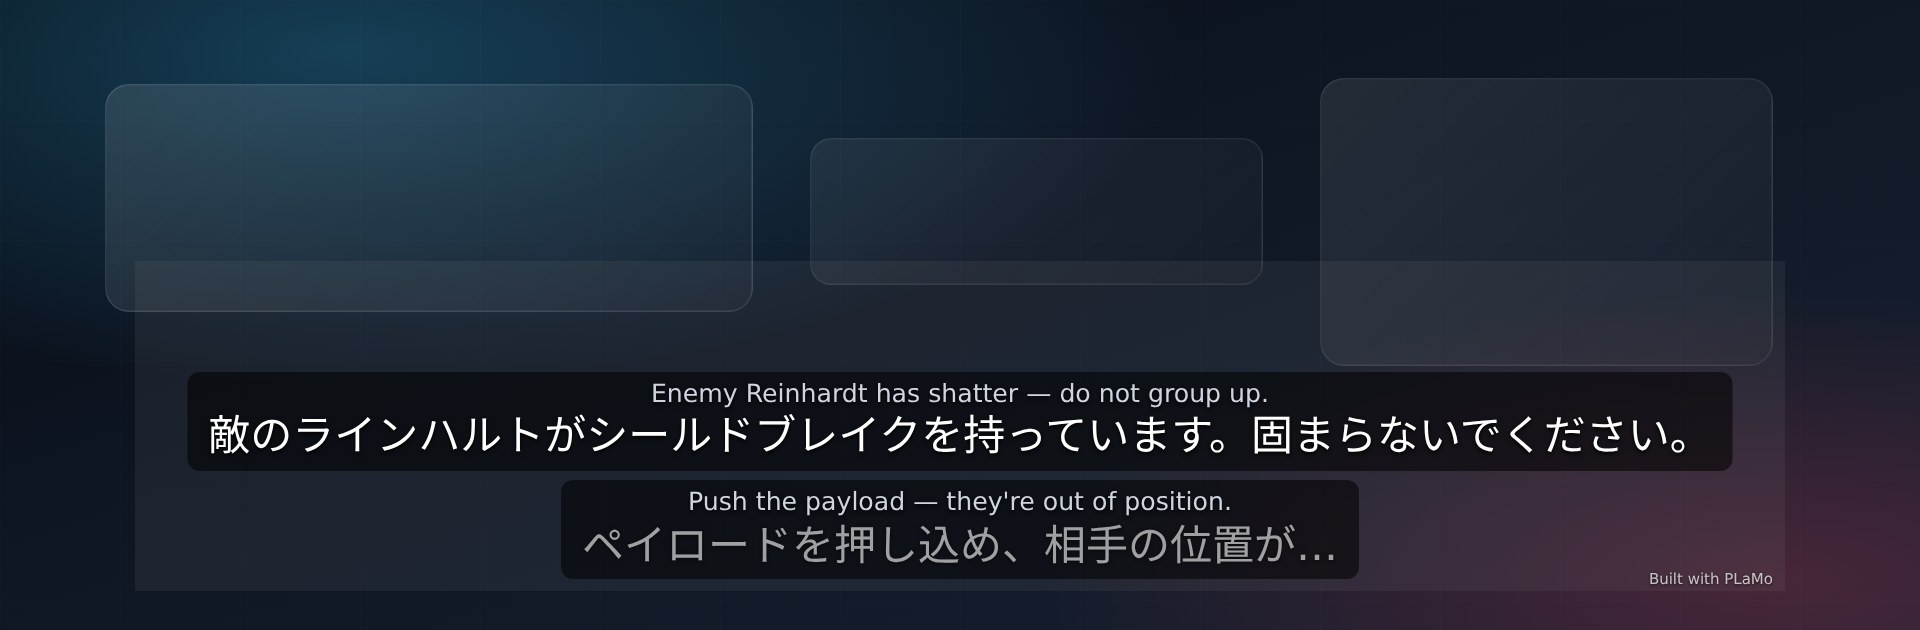
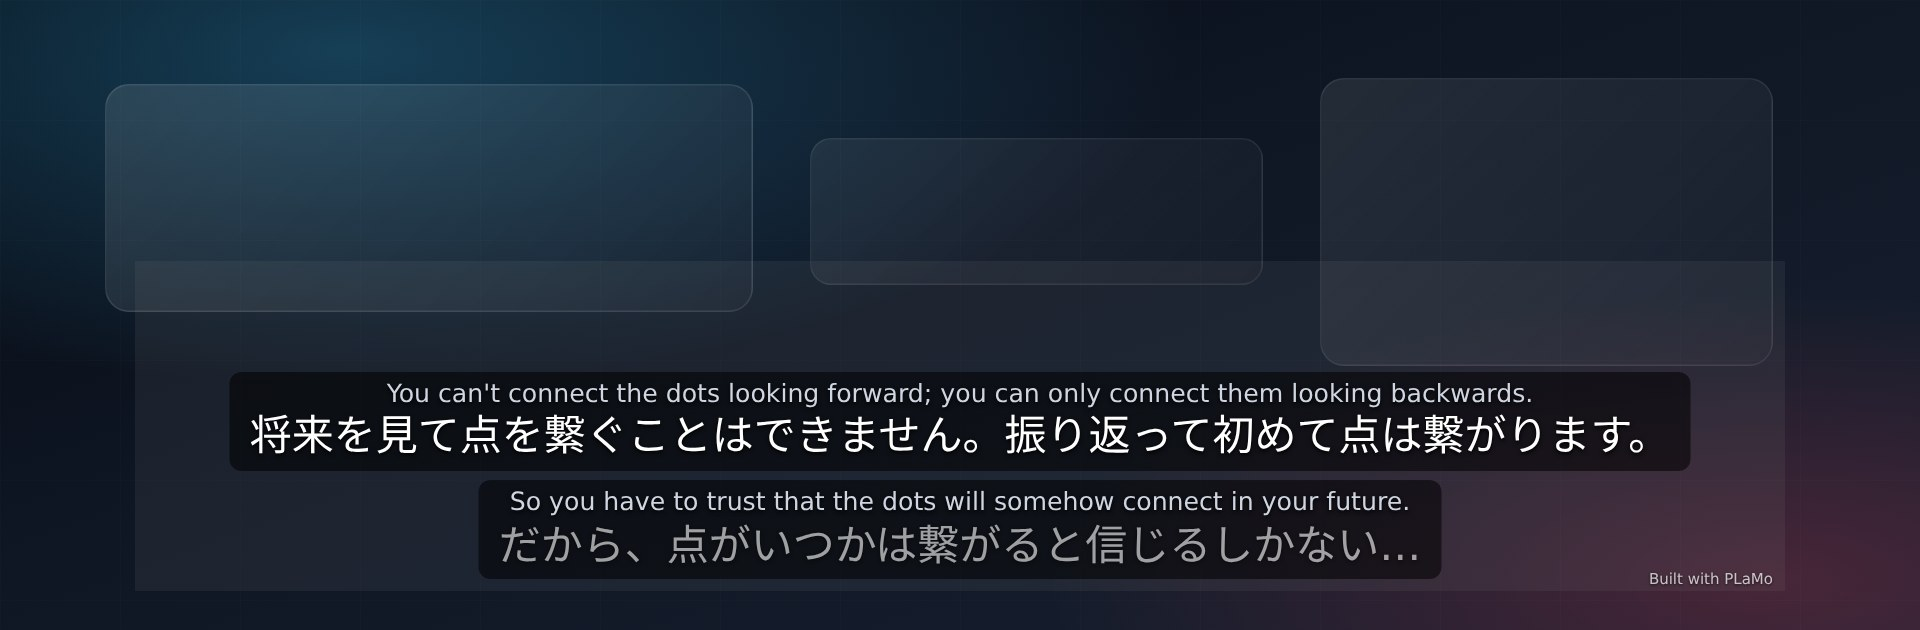
docs: スクリーンショットのサンプル字幕をジョブズの「Connecting the Dots」に変更
- サンプルデータの題材をゲーム（Overwatch）から、スティーブ・ジョブズの
  スタンフォード卒業式スピーチ（Connecting the Dots）に変更し、初見でも
  内容が分かるようにした
- 設定画面（日英）・モデルの準備（日英）・字幕オーバーレイの画像を再生成
  （履歴6件、英語原文＋日本語訳、オーバーレイは final / streaming の例）
- アプリ内の例示もゲーム用語から中立な内容に変更
  - 話題（翻訳のヒント）のプレースホルダ（日英）
  - core のテスト用フィクスチャとコメント、src-tauri の e2e テスト既定用語集
- cargo test -p overlaysubs-core: 19 passed

Changed region(s): [[0.0938, 0.573, 0.9062, 0.754], [0.25, 0.754, 0.75, 0.9349]]

diff --git a/ui/i18n.js b/ui/i18n.js
@@ -21,7 +21,7 @@ const I18N = {
     input: "音声入力", source: "入力元", system: "システム音声", mic: "マイク", device: "デバイス", default_dev: "既定",
     languages: "言語", src_lang: "話されている言語", auto: "自動判定", tgt_lang: "訳す言語", alt_lang: "すでにその言語のとき",
     tuning: "翻訳の調整", form: "日本語の文体", form_default: "既定", plain: "常体", polite: "敬体", context: "直前の発話を文脈として使う",
-    topic: "話題（翻訳のヒント）", topic_ph: "例: Overwatch のコーチング配信", glossary: "用語集（1行に「原語=訳語」）", recent: "最近の字幕", no_history: "まだ字幕はありません",
+    topic: "話題（翻訳のヒント）", topic_ph: "例: オンライン講義の録音", glossary: "用語集（1行に「原語=訳語」）", recent: "最近の字幕", no_history: "まだ字幕はありません",
     asr: "音声認識", translator: "翻訳", vad: "VAD", models_dir: "保存先", change: "変更", delete: "削除", deleted: "削除しました", downloaded: "取得済み", missing: "未取得",
     advanced: "詳細設定", gpu_layers: "翻訳モデルのGPUレイヤー数（0でCPU）", whisper_gpu: "音声認識にGPUを使う",
     overlay: "字幕の表示", show_source: "原文も表示", font_size: "文字サイズ", font: "フォント", bg: "背景の不透明度", lines: "表示行数", linger: "表示時間（秒）", click_through: "クリック透過", show_credit: "「Built with PLaMo」を表示",
@@ -53,7 +53,7 @@ const I18N = {
     input: "Audio input", source: "Source", system: "System audio", mic: "Microphone", device: "Device", default_dev: "Default",
     languages: "Languages", src_lang: "Spoken language", auto: "Auto-detect", tgt_lang: "Translate into", alt_lang: "If already in that language",
     tuning: "Translation tuning", form: "Japanese style", form_default: "Default", plain: "Plain", polite: "Polite", context: "Use previous utterances as context",
-    topic: "Topic (hint for translation)", topic_ph: "e.g. Overwatch coaching stream", glossary: "Glossary (one \"source=target\" per line)", recent: "Recent subtitles", no_history: "No subtitles yet",
+    topic: "Topic (hint for translation)", topic_ph: "e.g. a recorded online lecture", glossary: "Glossary (one \"source=target\" per line)", recent: "Recent subtitles", no_history: "No subtitles yet",
     asr: "Speech recognition", translator: "Translation", vad: "VAD", models_dir: "Folder", change: "Change", delete: "Delete", deleted: "Deleted", downloaded: "downloaded", missing: "not downloaded",
     advanced: "Advanced", gpu_layers: "Translator GPU layers (0 = CPU)", whisper_gpu: "Use GPU for speech recognition",
     overlay: "Subtitles", show_source: "Show original text", font_size: "Font size", font: "Font", bg: "Background opacity", lines: "Lines", linger: "Display time (s)", click_through: "Click-through", show_credit: "Show \"Built with PLaMo\"",

diff --git a/crates/core/src/session.rs b/crates/core/src/session.rs
@@ -28,7 +28,7 @@ pub struct SessionConfig {
     pub form: Option<Form>,
     pub use_context: bool,
     pub glossary: Vec<(String, String)>,
-    /// Free-text hint for the translator, e.g. "Overwatch coaching stream".
+    /// Free-text hint for the translator, e.g. "Stanford commencement speech".
     pub topic: String,
 }
 
@@ -280,12 +280,12 @@ mod tests {
     #[test]
     fn japanese_fragments_join_without_space_and_flush_finalizes() {
         let mut s = Session::new(SessionConfig::default());
-        let (mut a, mut mt, mut caps) = (asr(vec!["ブリンクを使うのが", "早すぎます"]), FakeMt(vec![]), vec![]);
+        let (mut a, mut mt, mut caps) = (asr(vec!["この設定を変えるのが", "早すぎます"]), FakeMt(vec![]), vec![]);
         fin(&mut s, &mut a, &mut mt, &mut caps);
         fin(&mut s, &mut a, &mut mt, &mut caps);
         assert!(s.entries.is_empty());
         s.flush(&mut mt, &mut |c| caps.push(c)).unwrap();
-        assert_eq!(s.entries[0].source, "ブリンクを使うのが早すぎます");
+        assert_eq!(s.entries[0].source, "この設定を変えるのが早すぎます");
         s.flush(&mut mt, &mut |c| caps.push(c)).unwrap();
         assert_eq!(s.entries.len(), 1, "second flush is a no-op");
     }
@@ -302,16 +302,16 @@ mod tests {
     #[test]
     fn glossary_and_previous_sentence_go_to_asr_topic_and_matching_terms_to_mt() {
         let cfg = SessionConfig {
-            glossary: vec![("Tracer".into(), "トレーサー".into()), ("Blink".into(), "ブリンク".into())],
-            topic: "Overwatch coaching".into(),
+            glossary: vec![("dots".into(), "点".into()), ("calligraphy".into(), "カリグラフィー".into())],
+            topic: "Stanford commencement speech".into(),
             ..Default::default()
         };
         let mut s = Session::new(cfg);
-        let (mut a, mut mt, mut caps) = (asr(vec!["Tracer is fast.", "Use it later."]), FakeMt(vec![]), vec![]);
+        let (mut a, mut mt, mut caps) = (asr(vec!["The dots connect later.", "Trust the process."]), FakeMt(vec![]), vec![]);
         fin(&mut s, &mut a, &mut mt, &mut caps);
         fin(&mut s, &mut a, &mut mt, &mut caps);
-        assert_eq!(a.1, ["Tracer, Blink.", "Tracer, Blink. Tracer is fast."]);
-        assert_eq!(mt.0[0], r#"en>ja h0 Tracer is fast. ["Tracer"] "Overwatch coaching""#);
+        assert_eq!(a.1, ["dots, calligraphy.", "dots, calligraphy. The dots connect later."]);
+        assert_eq!(mt.0[0], r#"en>ja h0 The dots connect later. ["dots"] "Stanford commencement speech""#);
         assert!(mt.0[1].contains("[]"), "no matching terms: {}", mt.0[1]);
     }
 

diff --git a/src-tauri/src/engine.rs b/src-tauri/src/engine.rs
@@ -237,7 +237,7 @@ mod tests {
         ep.push(&vec![0.0; 16_000], &mut vad, &mut evs).unwrap();
         let lang = env("OVERLAYSUBS_LANG", "en");
         // Glossary terms reach Whisper as its prompt.
-        let glossary = env("OVERLAYSUBS_GLOSSARY", "Blink=ブリンク;Tracer=トレーサー").split(';').filter_map(|e| e.split_once('=')).map(|(a, b)| (a.into(), b.into())).collect();
+        let glossary = env("OVERLAYSUBS_GLOSSARY", "dots=点;calligraphy=カリグラフィー").split(';').filter_map(|e| e.split_once('=')).map(|(a, b)| (a.into(), b.into())).collect();
         let source_lang = std::env::var("OVERLAYSUBS_SOURCE_LANG").ok();
         let mut s = Session::new(SessionConfig { glossary, topic: env("OVERLAYSUBS_TOPIC", ""), source_lang, ..Default::default() });
         let mut finals = vec![];
